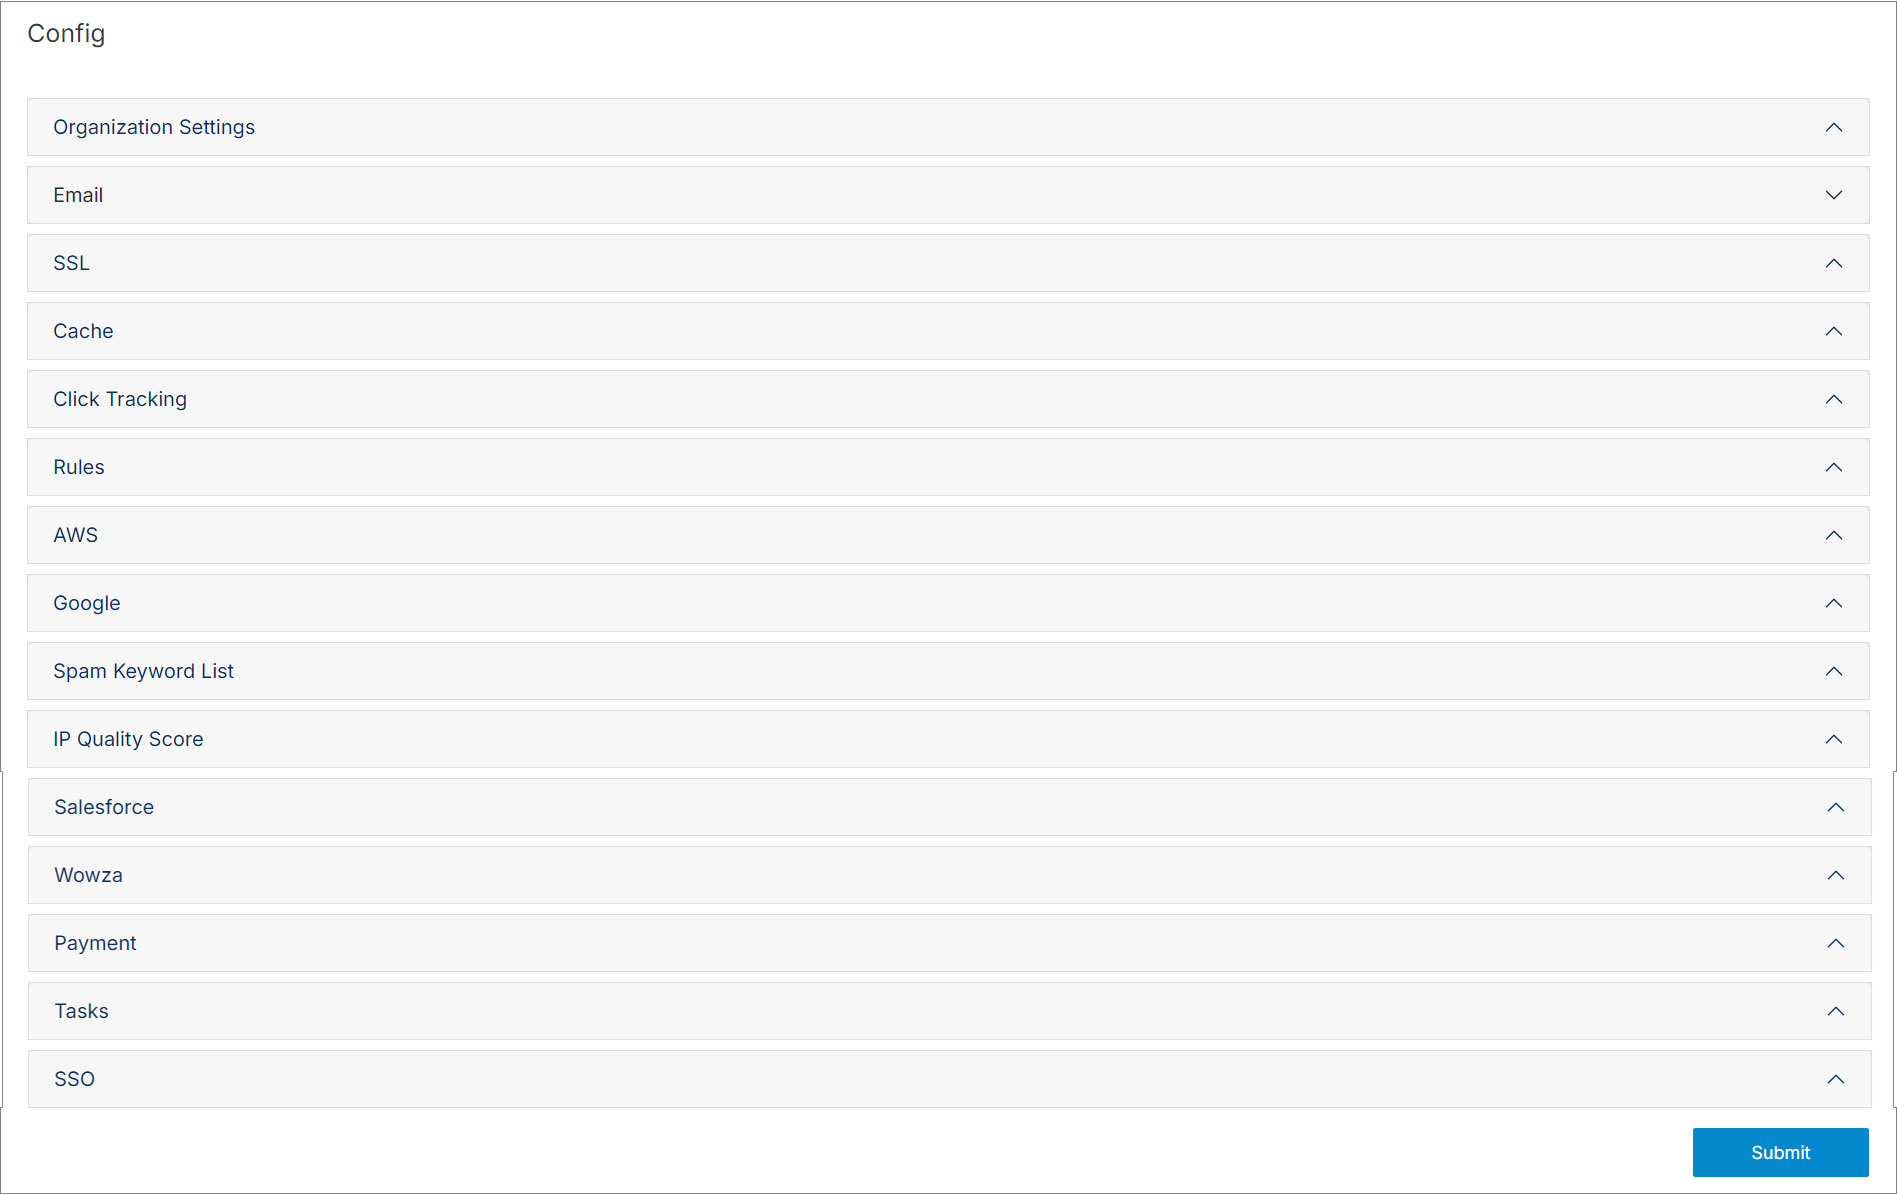
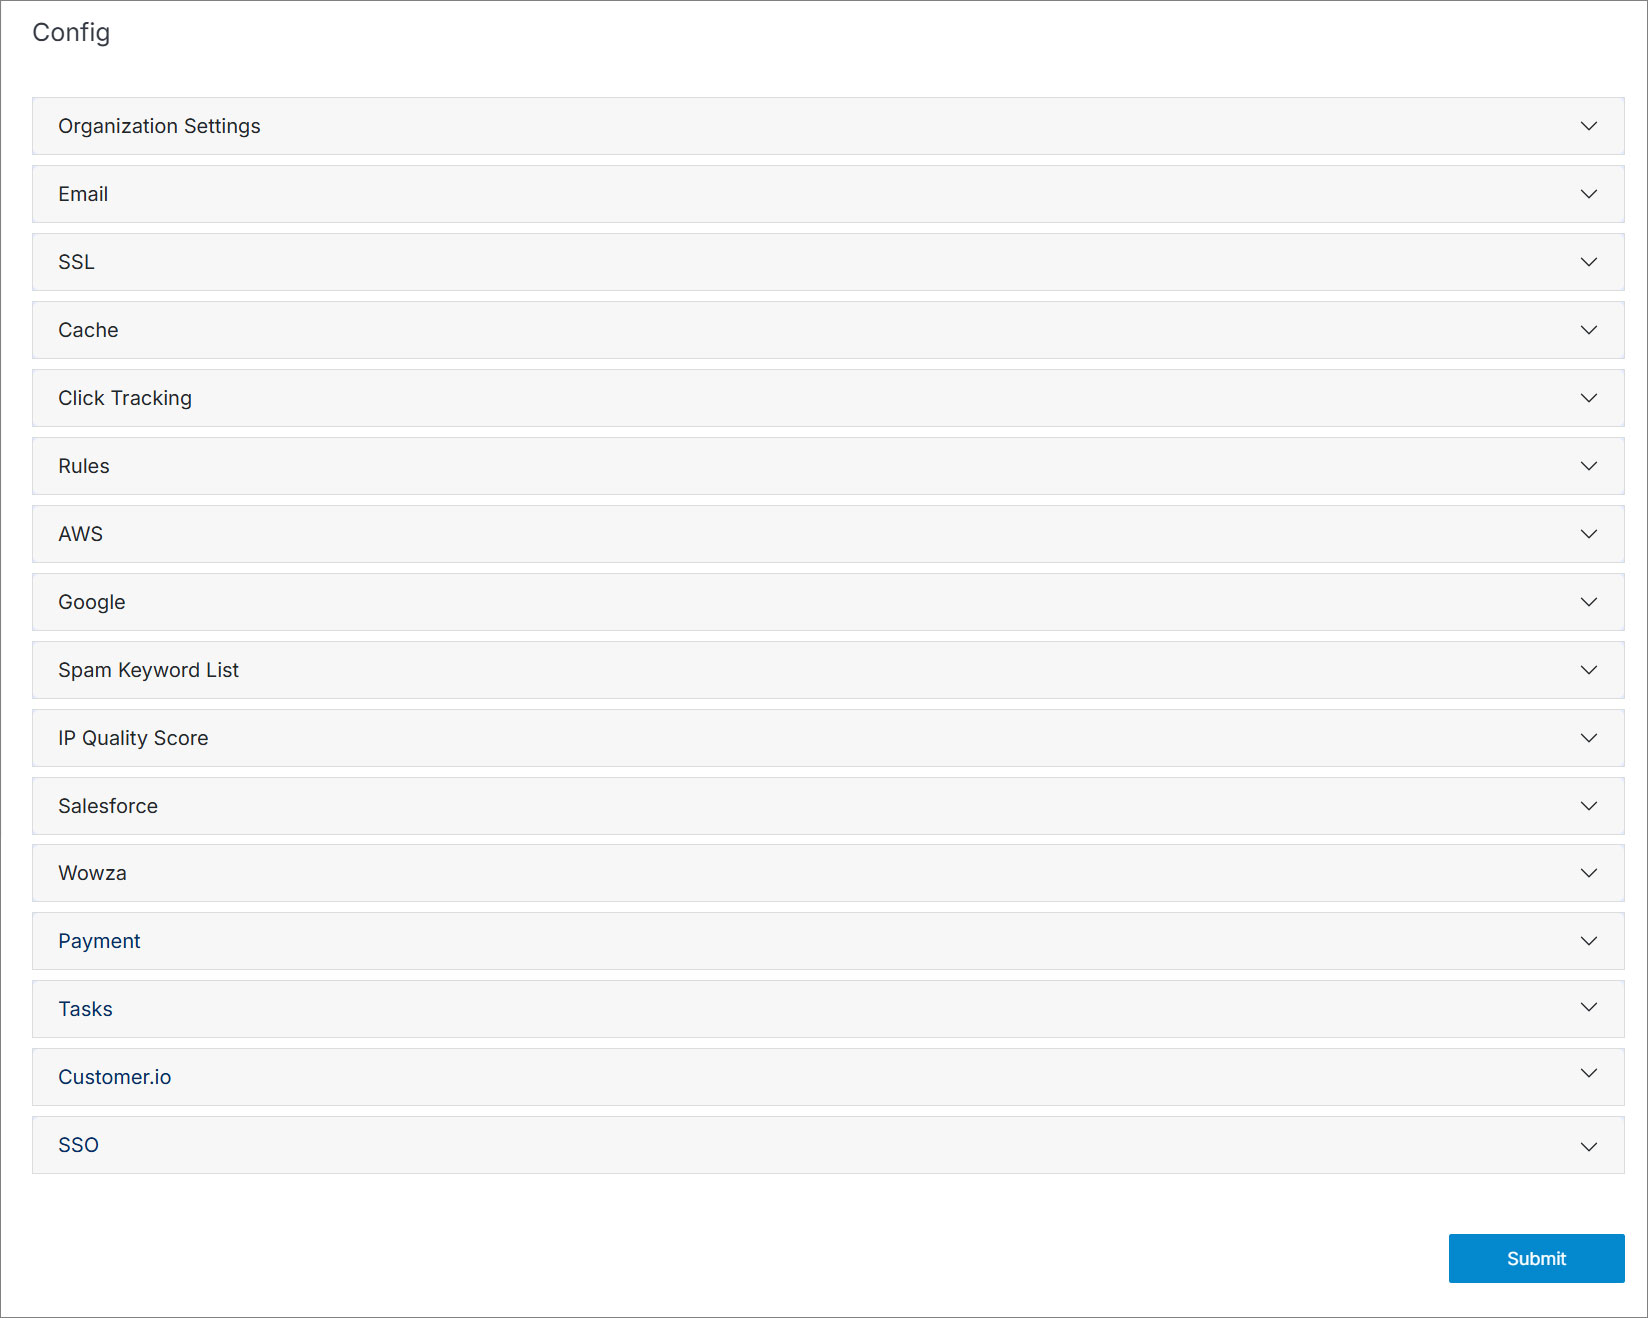
Update branding, config, and reports.

diff --git a/src/Admin/Settings/Config/index.md b/src/Admin/Settings/Config/index.md
@@ -1,26 +1,25 @@
-# Config
+The **Config** category in settings covers a broad range of configurations that apply to all websites within the CMS system. This section allows you to set up key functionalities such as payment options, SSL security, email settings, click tracking, and much more, ensuring that your sites run smoothly and securely. From managing your organization’s settings to integrating with third-party services like Salesforce and AWS, the Config section gives you full control over essential elements of your CMS environment.
 
-The config category of settings applies to all websites in the CMS system. Configure settings for payment options, SSL, email, and more.
-
-<!-- <p><img src="/static/images/admin/settings/config/config.jpg" alt="Config list" style="width: 80%;"></p> -->
+<p><img src="/static/images/settings/config/config.jpg" alt="Config view" style="width: 90%;"></p>
 
 **Name** | **Description** 
 :--- | ---
-<a href="/admin/settings/config/#organization-settings">Organization Settings</a> | Manage your organization settings, such as organization name and address.
-<a href="/admin/settings/config/#email">Email</a> | Manage email details for the official correspondence from the organization.
-<a href="/admin/settings/config/#ssl">SSL</a> | Manage a secure sockets layer (SSL) establishes an encrypted link between the web server and a browser.
-<a href="/admin/settings/config/#cache">Cache</a> | Determine how long files or pages are stored.
-<a href="/admin/settings/config/#click-tracking">Click Tracking</a> | Create settings for click tracking, which monitors users' click behavior on your sites.
-<a href="/admin/settings/config/#rules">Rules</a> | Create click tracking settings, which monitor users' click behavior on your sites.
-<a href="/admin/settings/config/#aws">AWS</a> | Specify AWS Keys and Secret Keys
-<a href="/admin/settings/config/#google">Google</a> | Manage your Google access.
-<a href="/admin/settings/config/#spam-keyword-list">Spam Keyword List</a> | Filter form entries that contain specific spam keywords.
-<a href="/admin/settings/config/#ip-quality-score">IP Quality Score</a> | Assess the IP quality score by analyzing IP addresses, phone numbers, email addresses, and more.
-<a href="/admin/settings/config/#salesforce">Salesforce</a> | Manage settings in connecting your Solodev CMS to Salesforce.
-<a href="/admin/settings/config/#wowza">Wowza</a> | Manage settings in connecting your Solodev CMS to Wowza.
-<a href="/admin/settings/config/#payment">Payment</a> | Manage payment settings, process test payments, connect payment gateways, and more.
-<a href="/admin/settings/config/#tasks">Tasks</a> | Create and manage task labels and workflows.
-<a href="/admin/settings/config/#sso">SSO</a> | Manage settings for single sign-on (SSO) capabilities in multiple applications.
+[Organization Settings](/admin/settings/config/#organization-settings) | Manage your organization settings, such as organization name and address.
+[Email](/admin/settings/config/#email) | Manage email details for the official correspondence from the organization.
+[SSL](/admin/settings/config/#ssl) | Manage a secure sockets layer (SSL) establishes an encrypted link between the web server and a browser.
+[Cache](/admin/settings/config/#cache) | Determine how long files or pages are stored.
+[Click Tracking](/admin/settings/config/#click-tracking) | Create settings for click tracking, which monitors users' click behavior on your sites.
+[Rules](/admin/settings/config/#rules) | Create click tracking settings, which monitor users' click behavior on your sites.
+[AWS](/admin/settings/config/#aws) | Specify AWS Keys and Secret Keys
+[Google](/admin/settings/config/#google) | Manage your Google access.
+[Spam Keyword List](/admin/settings/config/#spam-keyword-list) | Filter form entries that contain specific spam keywords.
+[IP Quality Score](/admin/settings/config/#ip-quality-score) | Assess the IP quality score by analyzing IP addresses, phone numbers, email addresses, and more.
+[Salesforce](/admin/settings/config/#salesforce) | Manage settings in connecting your Solodev CMS to Salesforce.
+[Wowza](/admin/settings/config/#wowza) | Manage settings in connecting your Solodev CMS to Wowza.
+[Payment](/admin/settings/config/#payment) | Manage payment settings, process test payments, connect payment gateways, and more.
+[Tasks](/admin/settings/config/#tasks) | Create and manage task labels and workflows.
+<!-- [Customer.io](/admin/settings/config/#tasks) | Create and manage task labels and workflows. -->
+[SSO](/admin/settings/config/#sso) | Manage settings for single sign-on (SSO) capabilities in multiple applications.
 
 ## Organization Settings
 

diff --git a/src/Admin/Settings/Branding/index.md b/src/Admin/Settings/Branding/index.md
@@ -1,42 +1,17 @@
-# Branding
+The Branding section allows you to personalize your Solodev CMS by uploading your company logo and updating the colors of the buttons to match your brand’s style. You can also add custom CSS to further customize the appearance of your CMS and dashboard, ensuring it aligns with your company's visual identity.
 
-Branding displays your logo and custom CSS.
+<p><img src="/static/images/settings/branding/branding.jpg" alt="Branding view" style="width: 90%;"></p>
 
-<img src="/static/images/branding.jpg" alt="branding" style="width: 100%; display: block"></a>
-
-**Name** | **Description** 
-:--- | ---
-Upload Logo | Upload the logo from your computer.  
-<a href="/admin/settings/branding/#custom-css">Custom CSS</a> | Modify the look and feel of your backend experience. 
-<a href="/admin/settings/branding/#custom-dashboard">Custom Dashboard</a> | Update what is first seen when logging into CMS.
-
-!!!Note:
-Recommended logo size: 360px x 360px.
-!!!
+Use the **Browse** button to upload your company logo and customize the branding of your CMS.
 
 ## Custom CSS
 
-Modify the look and feel of your backend experience. 
+Enhance the look and feel of your CMS by customizing the primary and secondary button colors, along with adding your own custom CSS to personalize the backend experience even further.
 
-<img src="/static/images/branding2.jpg" alt="branding2" style="width: 100%; display: block"></a>
-
-**Name** | **Description** 
-:--- | ---
-Change Primary Button Color | Change primary button color. Click it and choose the color.
-Change Secondary Button Color | Change secondary button color. Click it and choose the color.
-Custom CSS | Type custom CSS code.
+<p><img src="/static/images/settings/branding/custom-css.jpg" alt="Custom CSS accordion" style="width: 60%;"></p>
 
 ## Custom Dashboard
 
-Update what is first seen when logging into CMS.
+Take control of the user experience by enabling a custom dashboard. This allows you to personalize what’s displayed when you first log into the CMS, giving you the flexibility to create a tailored environment that suits your needs by adding custom code.
 
-<img src="/static/images/branding3.jpg" alt="branding3" style="width: 100%; display: block"></a>
-
-**Name** | **Description** 
-:--- | ---
-Enable Custom Dashboard | Mark this option if you want a custom dashboard enabled.
-Custom Dashboard Markup | Enter custom dashboard markup.
-
-## Confirm
-
-Click the blue **Submit** button at the bottom right to apply your changes.
+<p><img src="/static/images/settings/branding/custom-dashboard.jpg" alt="Custom Dashboard accordion" style="width: 60%;"></p>

diff --git a/src/Admin/Settings/Reports/index.md b/src/Admin/Settings/Reports/index.md
@@ -1,9 +1,3 @@
-# Reports
+The Reports section provides a detailed log of user activity within your Solodev CMS. Here, you can track which users performed specific actions, including the date and time of each action, as well as the user's IP address. This functionality helps you monitor and audit the actions taken within your CMS, ensuring that you have a complete record of all user activity. It's a valuable tool for keeping tabs on usage, ensuring compliance, and maintaining security within your environment.
 
-Check your current activity. 
-
-<img src="/static/images/reports.jpg" alt="reports" style="width: 100%; display: block"></a>
-
-All actions are presented with the details such as activity date, IP, action type, and view.
-
-Search activities by name. To do that, use the **Search** field at the top.
+<p><img src="/static/images/settings/reports/reports.jpg" alt="Reports table" style="width: 90%;"></p>
